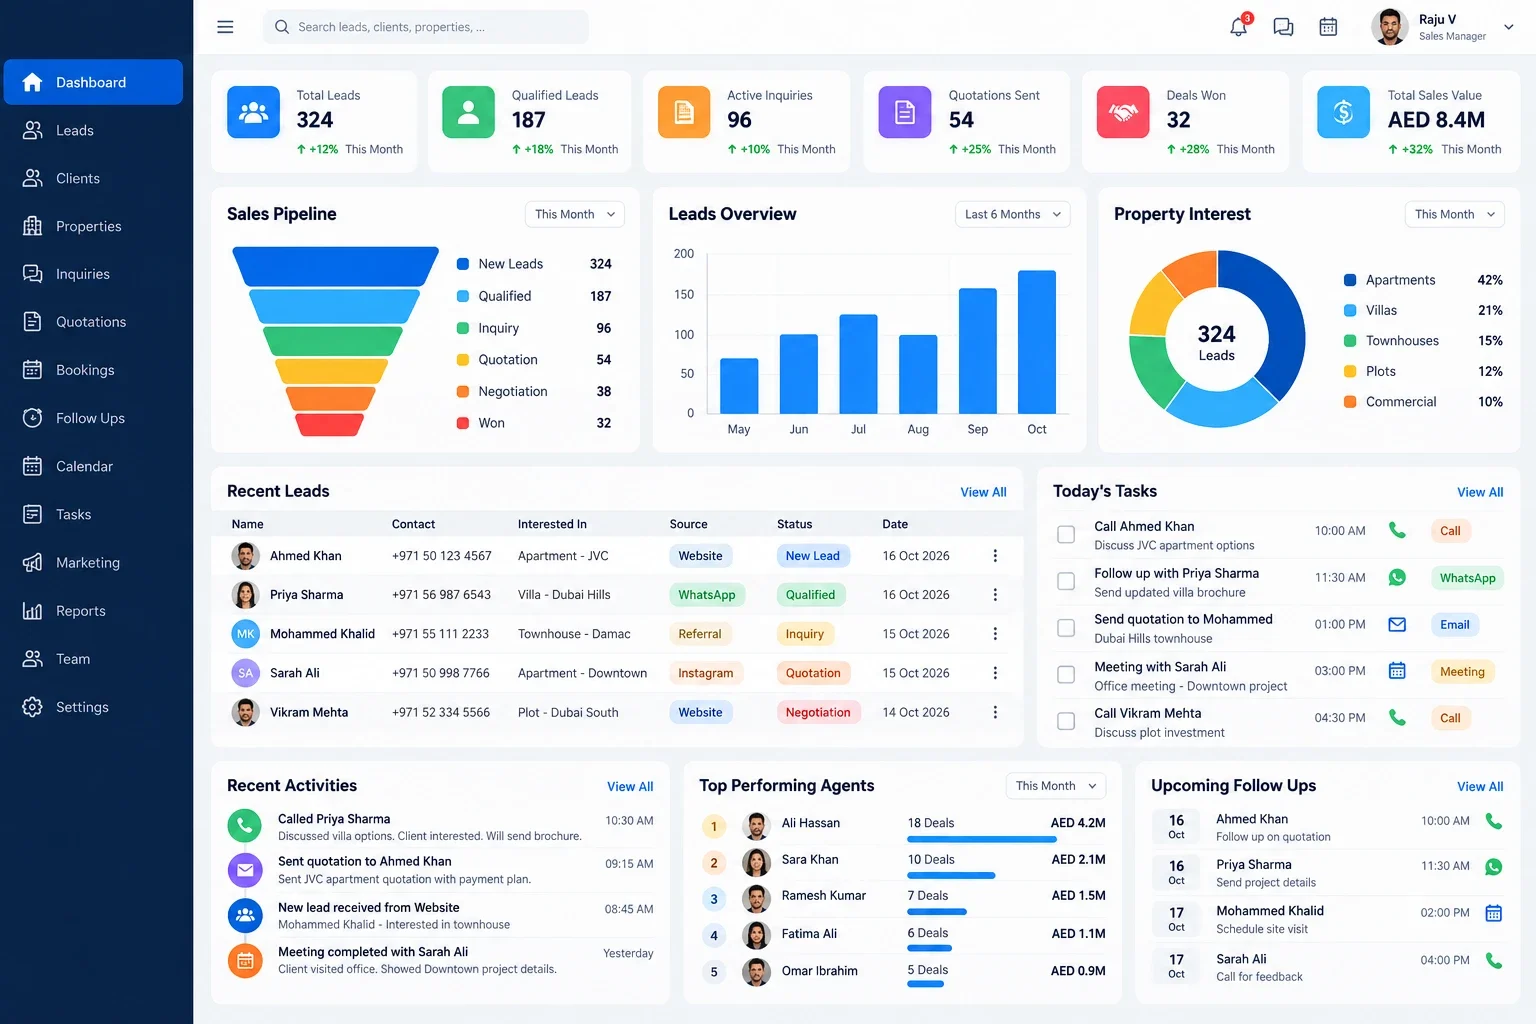
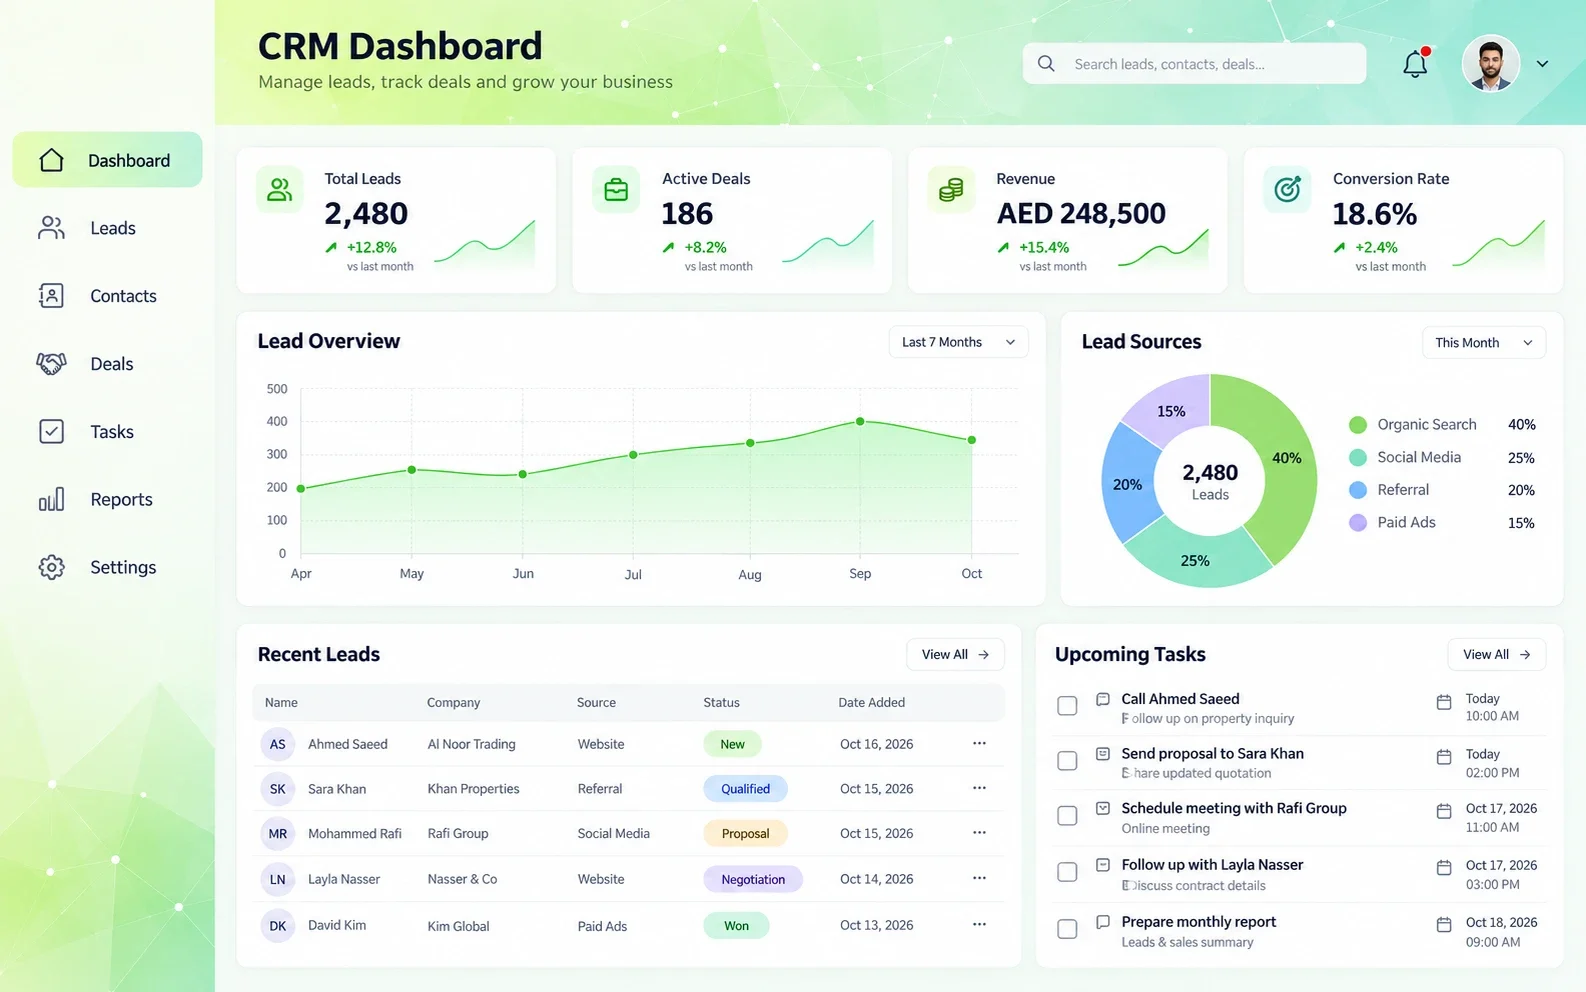
Update hero dashboard image

diff --git a/index.html b/index.html
@@ -22,7 +22,7 @@
 <div class="cta reveal"><a href="contact.html" class="btn">Get Started <b>→</b></a><a href="services.html" class="btn ghost">Explore Our Services</a></div>
 <p class="tag reveal">Build Better. Grow Faster. Go Digital.</p>
 </div>
-<div class="h3-dash" id="h3dash"><img src="images/hero-dashboard.webp" alt="Zenexio CRM dashboard: leads, sales pipeline, tasks and reports" width="1536" height="1024"></div>
+<div class="h3-dash" id="h3dash"><img src="images/hero-dashboard.webp" alt="Zenexio CRM dashboard: leads, sales pipeline, tasks and reports" width="1586" height="992"></div>
 </section><div class="marquee"><div class="track" id="marq"></div></div>
 
 
